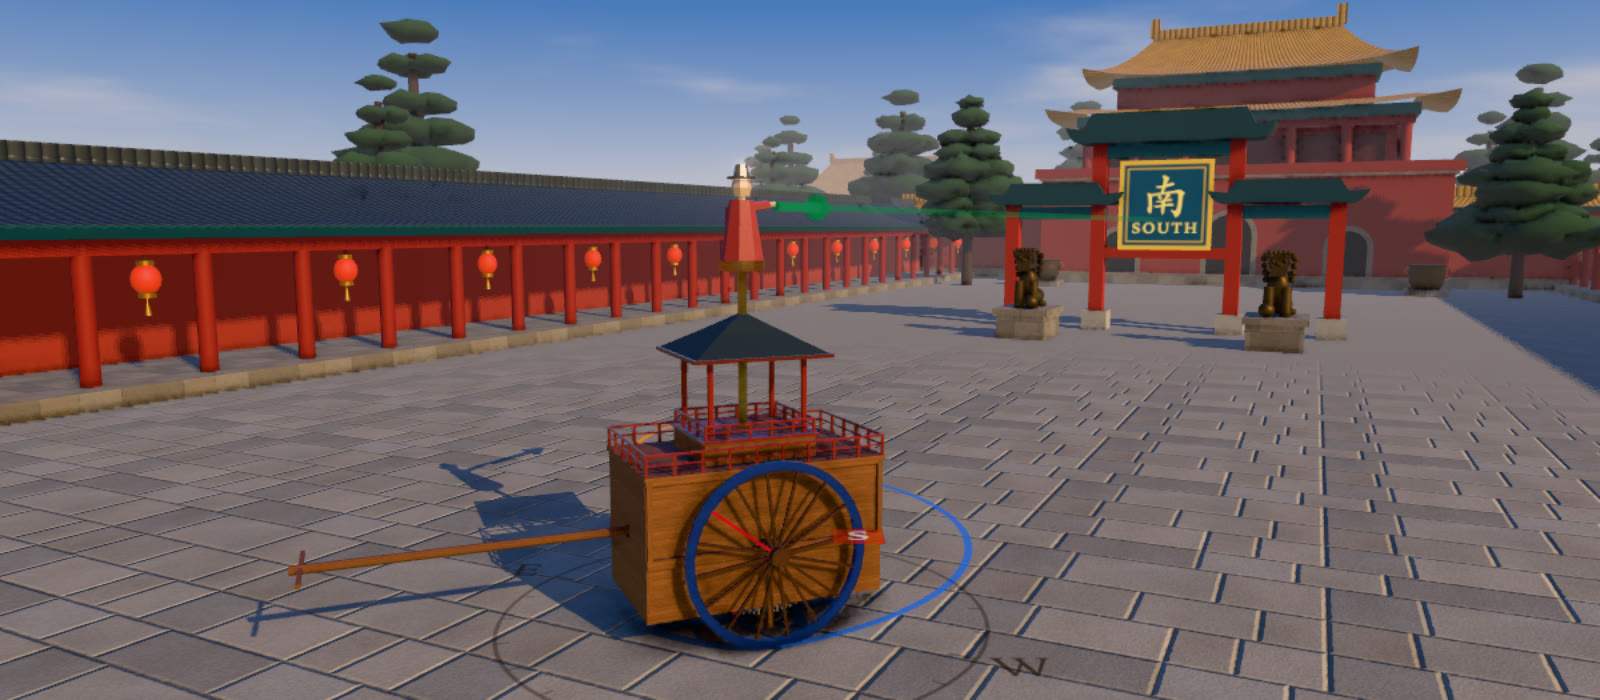
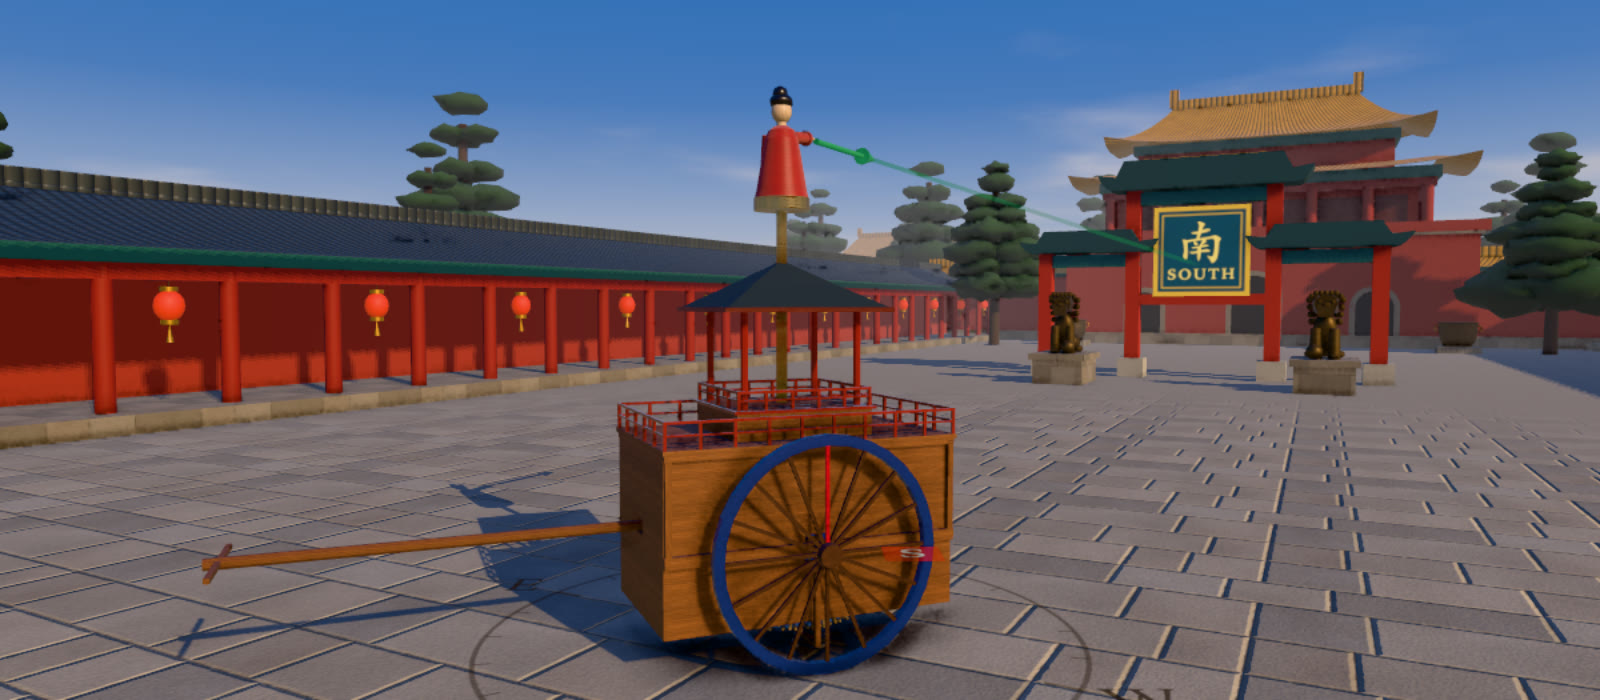
M1: README hero, README loops and link previews re-shot with the rounded figure and slim arrow; hero on a fixed promo camera (arm on the 南 board), loop camera closer with head room for both languages, link preview from lower and nearer so the three arrows sit on the sky; README alts match (dial top 

diff --git a/tools/promo/shots-gif.js b/tools/promo/shots-gif.js
@@ -11,8 +11,8 @@
       P.app.state.speed = (2 * Math.PI) / LAP / 0.9;
     }
     st.cmd = { fwd: 0, turn: -1 };
-    st.fov = 35;
-    st.cam = { pos: [25, 10.7, -26.5], target: [3.2, 6.6, 8.6] };
+    st.fov = 38;
+    st.cam = { pos: [20, 9.5, -20], target: [0.5, 6.4, 8.6] };
     st.dof = false;
   };
 })();

diff --git a/README.md b/README.md
@@ -4,7 +4,7 @@
 
 ![庭院里的木车，车上的木人伸手指着南门](images/readme-hero.jpg)
 
-<p align="center"><img src="images/readme-lap.gif" width="560" alt="车原地绕了一整圈，木人的手始终指着南门；左上角的罗盘一直写着「木人指着正南」"><br><sub>车绕一整圈，木人一直指着南门（镜头朝向固定，只跟着车走）</sub></p>
+<p align="center"><img src="images/readme-lap.gif" width="560" alt="车在原地转了一整圈，木人的手始终指着左边的南门；右上角的罗盘一直写着「木人指着正南」"><br><sub>车原地转一整圈，木人一直指着南门（镜头不动）</sub></p>
 
 一辆两轮车，车上站着一个木人。车怎么拐弯，木人的手都一直指着南方。它里面没有磁铁，只有齿轮。
 

diff --git a/README.en.md b/README.en.md
@@ -2,7 +2,7 @@
 
 [中文](README.md) · **English**
 
-![A wooden cart turning in a palace courtyard; the little wooden man on top keeps his arm pointed at the gate marked South](images/readme-hero.en.jpg)
+![A wooden cart in a palace courtyard; the little wooden man on top points his arm at the gate marked South](images/readme-hero.en.jpg)
 
 <p align="center"><img src="images/readme-lap.en.gif" width="560" alt="The cart spins a full turn on the spot while the wooden man's arm stays pointed at the south gate on the left; the compass dial in the corner reads Pointing due south all the way round"><br><sub>A full turn on the spot. The man never stops pointing south.</sub></p>
 
